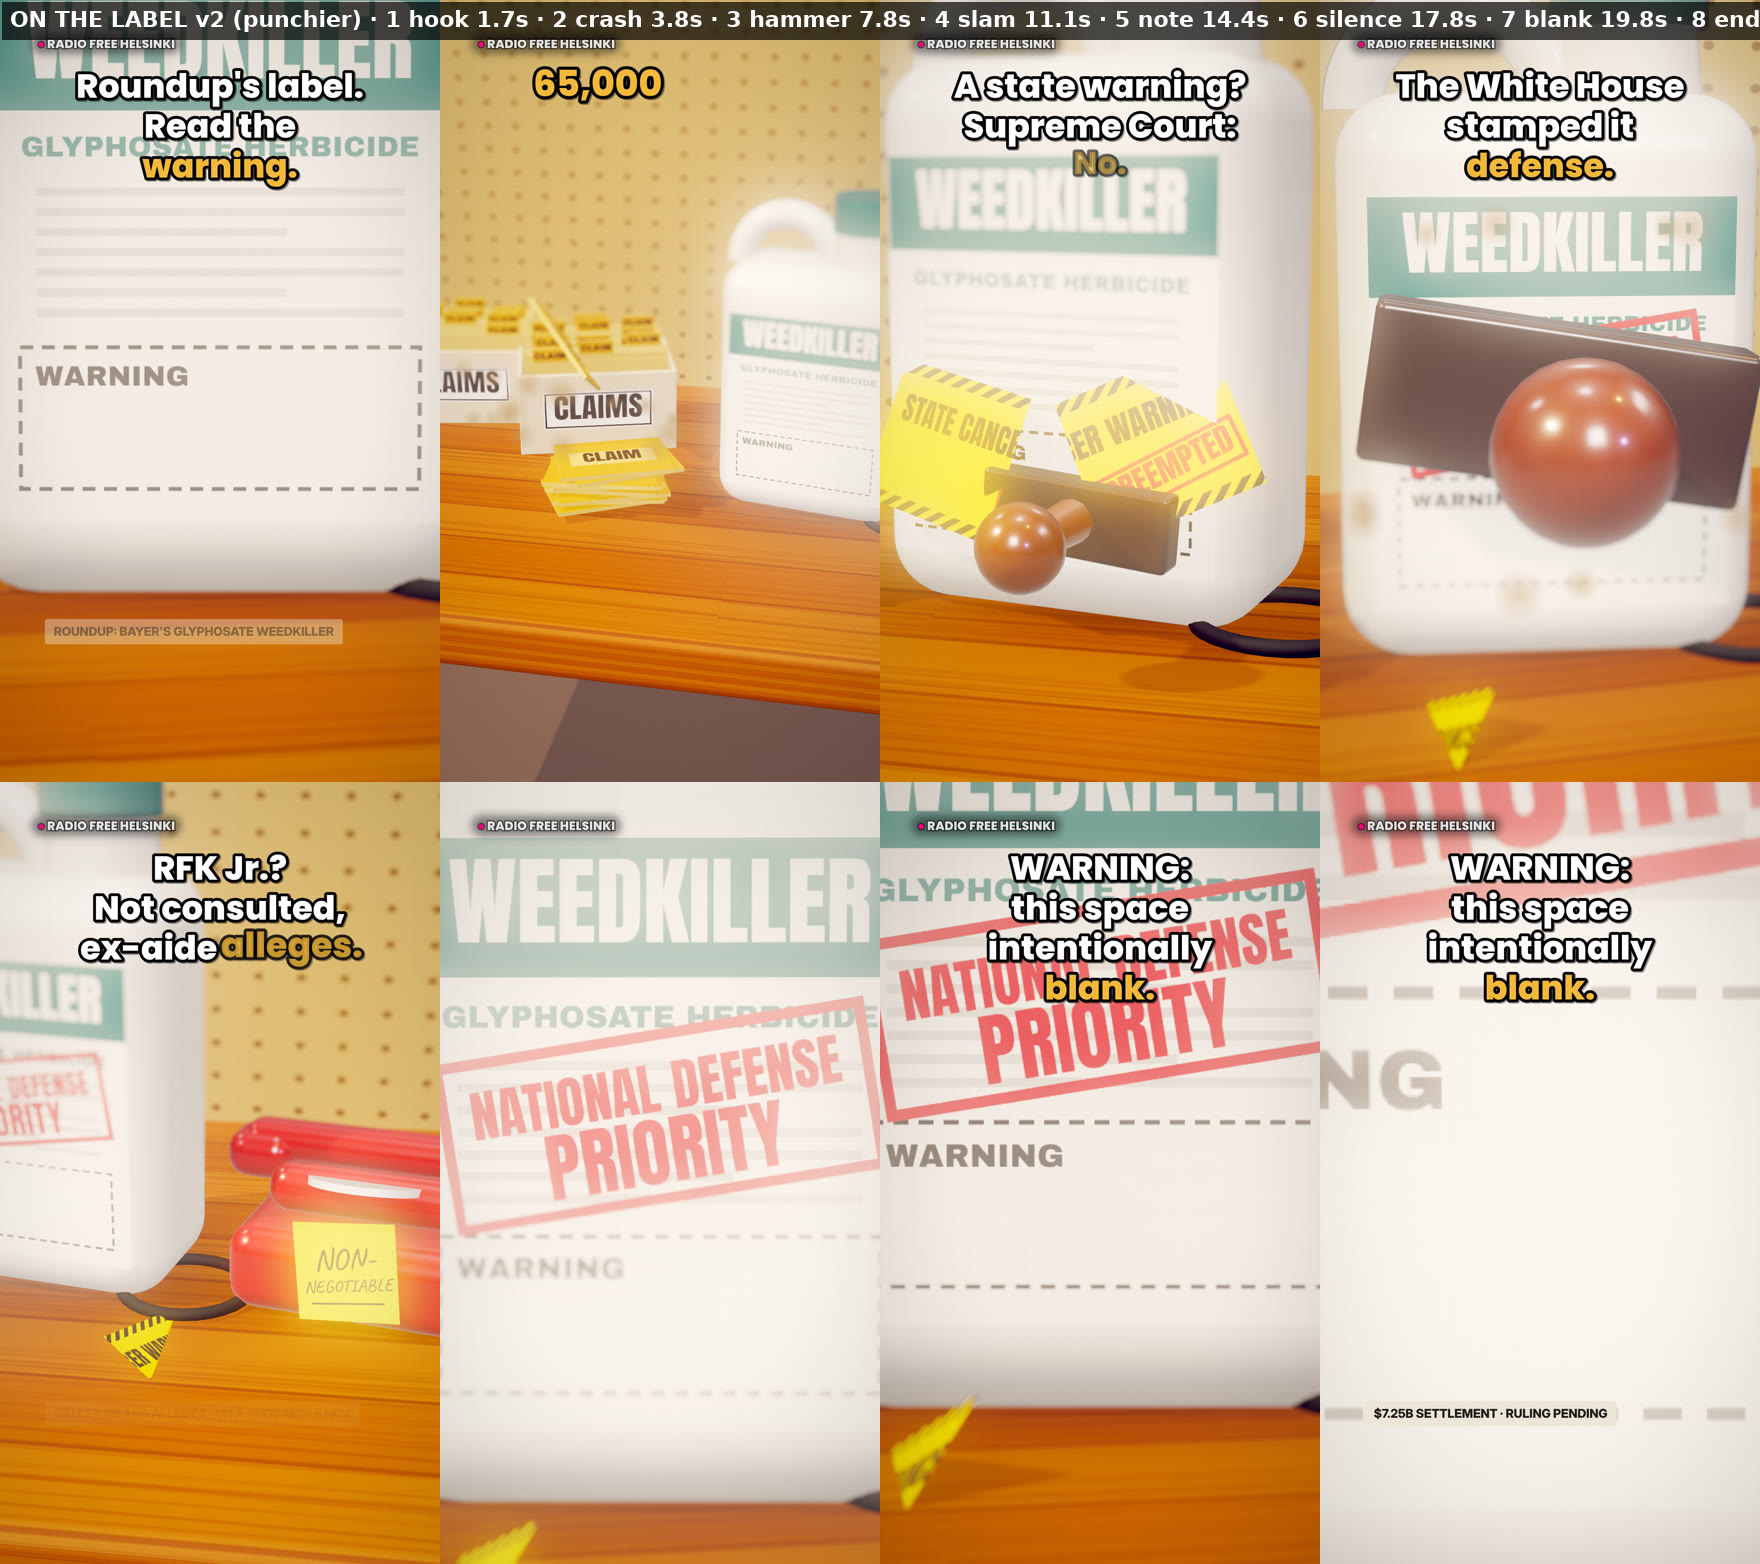
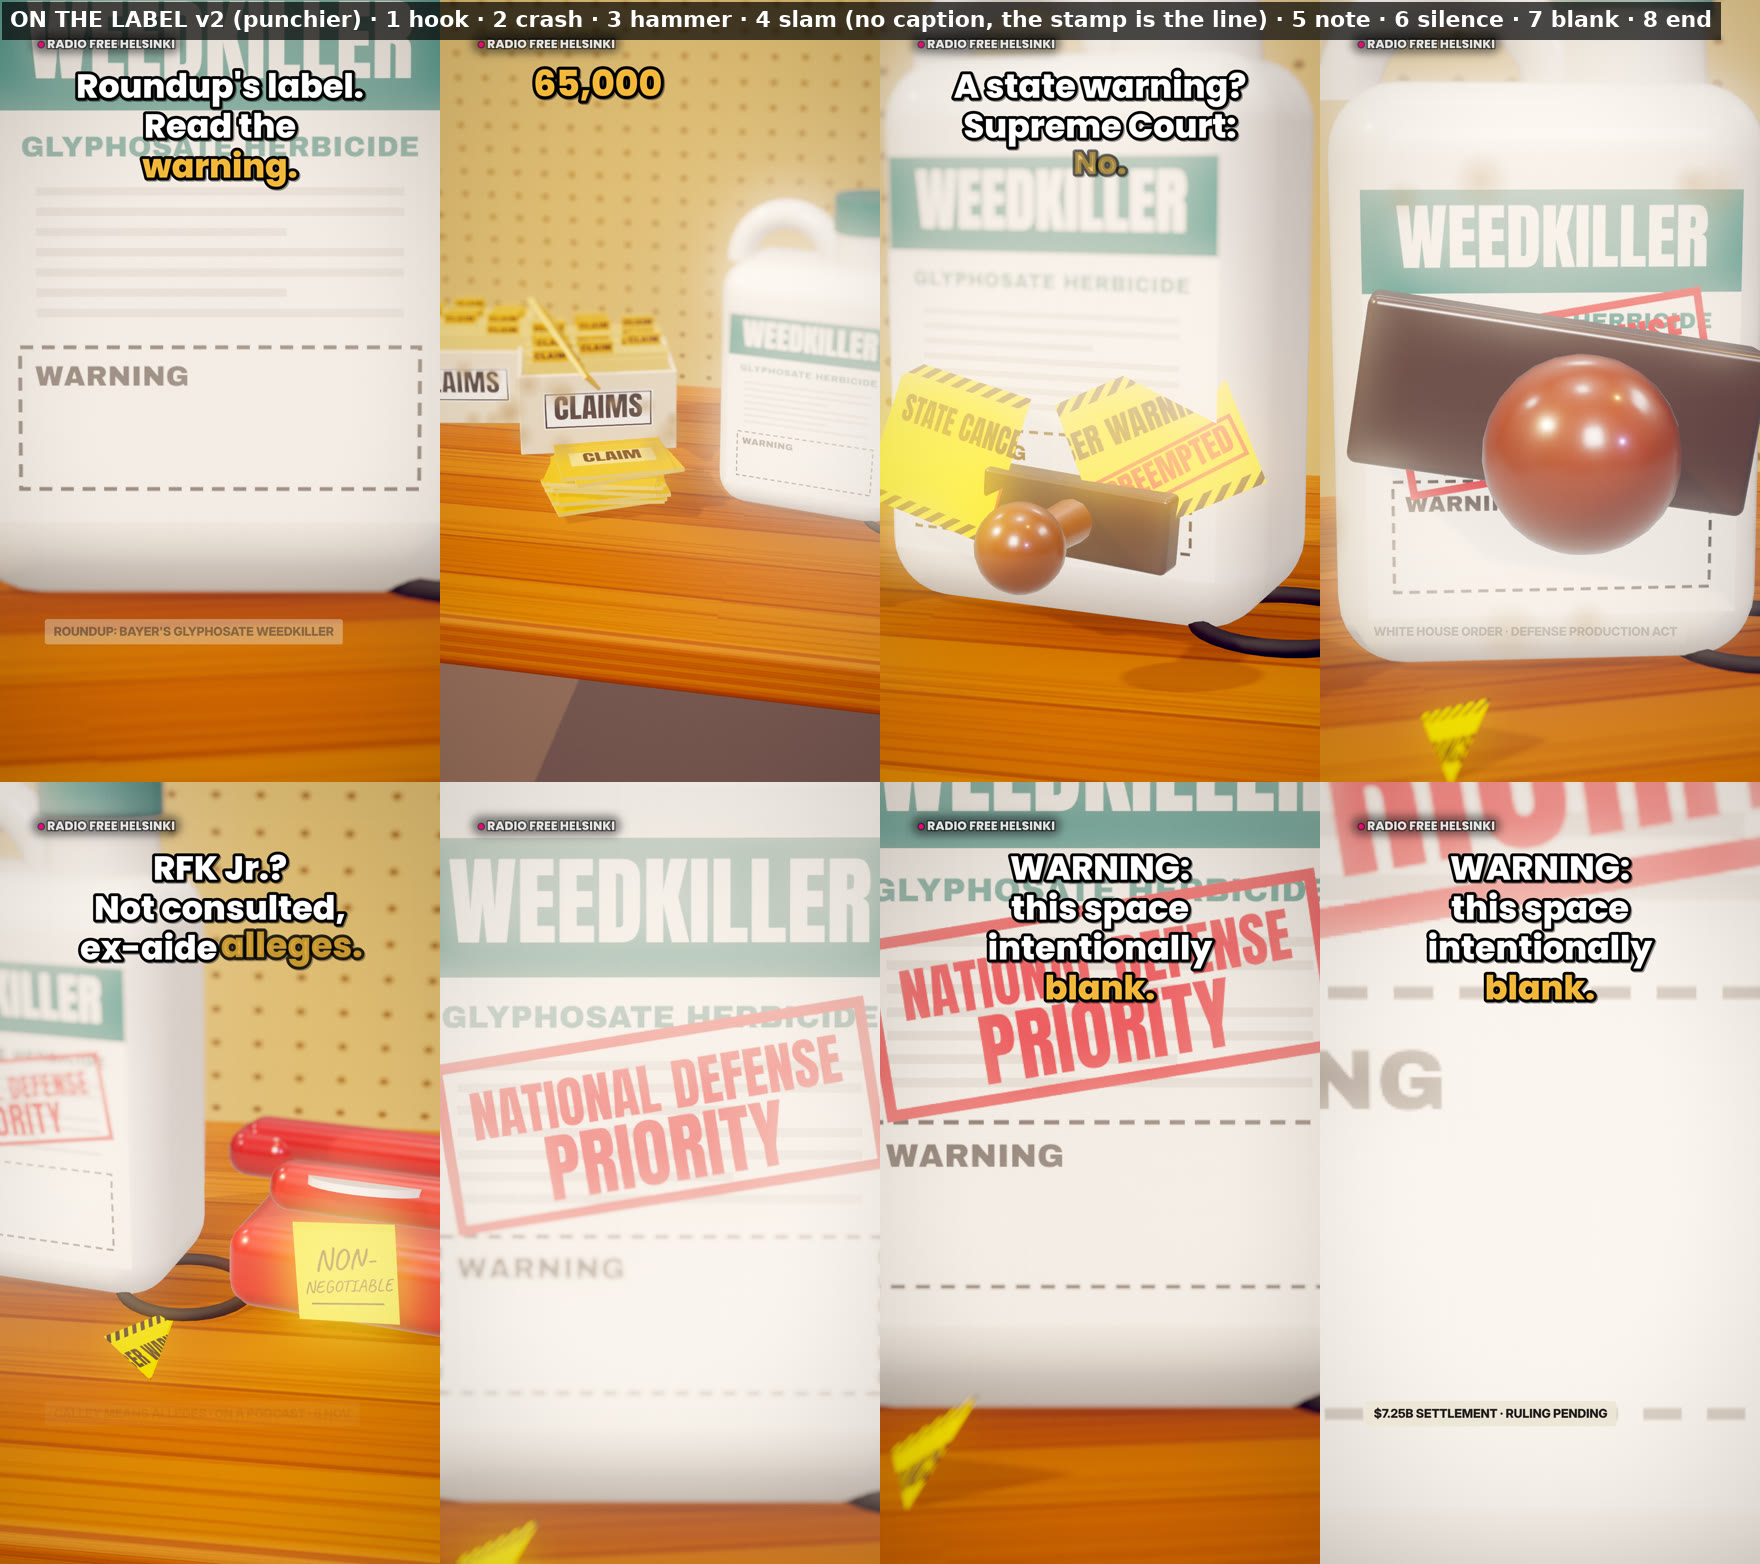
On the Label v2 in progress
Claude-Session: https://claude.ai/code/session_011b61vCGymuKHRP9nugFoKh

Changed region(s): [[0.75, 0.0, 1.0, 0.491], [0.2812, 0.0, 0.7188, 0.0307]]

diff --git a/radiofree/studio/art-motion/clay/roundup/film.js b/radiofree/studio/art-motion/clay/roundup/film.js
@@ -57,11 +57,11 @@ const fit = (g, text, size, maxW, min = 20, face = 'Anton-400', wt = '') => { le
 await CAP.loadFonts(FONT_DIR);
 const COPY = await CAP.loadCopy('copy.json');
 // short-short-long: the hook, three hits, the long allegation beat (four tags), the turn
-const BEATS = [['s1', 0], ['s2', 3.3], ['s3', 6.25], ['s4', 9.55], ['s5', 12.85], ['s6', 17.45], ['end', 21.35]];
+const BEATS = [['s1', 0], ['s2', 3.3], ['s3', 6.25], ['s4', 9.55], ['s5', 12.15], ['s6', 16.75], ['end', 20.65]];
 const P = CAP.plan(COPY, LANG, BEATS, { snap: 0.25 }), T = P.T, DUR = T.end, UI = P.ui;
 // every impact lands on its caption's pop word, to the frame
 const popT = (id) => { const c = P.captions.find((c) => c.id === id); return (c.words.find((w) => w.pop) || c.words[0]).t; };
-const EV = { hook: popT('hook'), crash: popT('claims'), stickStamp: popT('court'), stampDown: popT('order'), noteSlap: popT('asked'), blank: popT('blank') };
+const EV = { hook: popT('hook'), crash: popT('claims'), stickStamp: popT('court'), stampDown: T.s4 + 1.25, noteSlap: popT('asked'), blank: popT('blank') };   // the slam has no caption: the stamp is the line
 EV.stickHit = EV.stickStamp - 0.5; EV.stickLand = EV.stickStamp + 0.6;
 for (let i = 0; i < 3; i++) EV['folder' + i] = EV.crash + 0.06 + i * 0.09;
 EV.silence0 = T.s6; EV.silence1 = T.s6 + 0.55;
@@ -114,11 +114,12 @@ function drawLabel(stampK) {
   g.strokeStyle = '#1d1b19'; g.lineWidth = 5; g.setLineDash([16, 10]); g.strokeRect(BOX.x, BOX.y, BOX.w, BOX.h); g.setLineDash([]);
   g.fillStyle = '#1d1b19'; g.textAlign = 'left'; g.font = '34px ArchivoBlack-400'; g.fillText(UI.warnBox, BOX.x + 18, BOX.y + 46);
   if (stampK > 0) {   // NATIONAL DEFENSE / PRIORITY, in rubber-stamp red, at an angle, over the middle of the label
-    g.save(); g.translate(w / 2, 300); g.rotate(-0.16); g.globalAlpha = clamp(stampK);
-    g.strokeStyle = '#c4232b'; g.lineWidth = 12; g.strokeRect(-232, -88, 464, 176);
-    g.fillStyle = '#c4232b'; g.textAlign = 'center'; fit(g, UI.stamp1, 82, 420); g.fillText(UI.stamp1, 0, -6); fit(g, UI.stamp2, 82, 420); g.fillText(UI.stamp2, 0, 72);
+    g.save(); g.translate(w / 2, 284); g.rotate(-0.16); g.globalAlpha = clamp(stampK);
+    g.strokeStyle = '#c4232b'; g.lineWidth = 12; g.strokeRect(-232, -100, 464, 232);
+    g.fillStyle = '#c4232b'; g.textAlign = 'center'; fit(g, UI.stamp1, 82, 420); g.fillText(UI.stamp1, 0, -18); fit(g, UI.stamp2, 82, 420); g.fillText(UI.stamp2, 0, 60);
+    fit(g, UI.stamp3, 34, 400, 16, 'ArchivoBlack-400'); g.fillText(UI.stamp3, 0, 110);
     // ink texture: knock a few specks out, as a rubber stamp leaves it
-    g.globalCompositeOperation = 'destination-out'; const r = rng(11); for (let i = 0; i < 260; i++) { g.globalAlpha = 0.5 * clamp(stampK); g.fillRect(-240 + r() * 480, -96 + r() * 192, 2 + r() * 5, 2 + r() * 3); }
+    g.globalCompositeOperation = 'destination-out'; const r = rng(11); for (let i = 0; i < 300; i++) { g.globalAlpha = 0.5 * clamp(stampK); g.fillRect(-240 + r() * 480, -108 + r() * 248, 2 + r() * 5, 2 + r() * 3); }
     g.restore();
   }
   labelTex.needsUpdate = true;
@@ -320,7 +321,7 @@ function frame(t, captions = true) {
   tag(g2d, UI.tag0, tg(T.s1 + 1.6, T.s2 - 0.1));
   tag(g2d, UI.tag1, tg(T.s2 + 0.8, T.s2 + 1.85)); tag(g2d, UI.tag1b, tg(T.s2 + 1.95, T.s3 - 0.1));
   tag(g2d, UI.tag2, tg(T.s3 + 1.7, T.s4 - 0.1));
-  tag(g2d, UI.tag3, tg(T.s4 + 1.6, T.s5 - 0.1));
+  tag(g2d, UI.tag3, tg(EV.stampDown + 0.25, T.s5 - 0.1));
   tag(g2d, UI.tag4, tg(T.s5 + 0.5, T.s5 + 1.55)); tag(g2d, UI.tag4b, tg(T.s5 + 1.65, T.s5 + 2.6));
   tag(g2d, UI.tag4c, tg(T.s5 + 2.7, T.s5 + 3.6)); tag(g2d, UI.tag4d, tg(T.s5 + 3.7, T.s6 - 0.1));
   tag(g2d, UI.tag5, tg(EV.blank + 0.5, T.end + 1));

diff --git a/radiofree/studio/art-motion/plan/films/41-roundup.md b/radiofree/studio/art-motion/plan/films/41-roundup.md
@@ -198,7 +198,7 @@ as `films/07-11-Coxon14-On-the-Label-v1.mp4` / `-v1-loop.mp4` for comparison. St
 
 **What was wrong with v1, and the fix:**
 - Five beats at the same ~4.4 s cadence, each a three-line news sentence with one pop. v2 has six beats of varied
-  length (3.3 / 2.95 / 3.3 / 3.3 / 4.6 / 3.9 s), shorter lines, and a turn at the end instead of a repeat of beat 2.
+  length (3.3 / 2.95 / 3.3 / 2.6 / 4.6 / 3.9 s), five captions and one caption-less slam, shorter lines, and a turn at the end instead of a repeat of beat 2.
 - Polite actions. Every hit is now an impact with a 2–3 frame camera kick: the CLAIMS boxes crash in from above and files
   spill; a hand stamp hammers PREEMPTED onto the sticker, which tears in two; the big stamp hangs, then slams, with dust;
   the note slaps. The bed ducks hard under each (−10 / −10 / −14 / −8 dB).
@@ -207,22 +207,28 @@ as `films/07-11-Coxon14-On-the-Label-v1.mp4` / `-v1-loop.mp4` for comparison. St
   deadpan sting: "WARNING: this space intentionally [blank]." Legal-document deadpan; true, since after Durnell no state
   can require the warning and the federal label carries none.
 
-**Script (en, 21.35 s + the sign-off):**
+**The house rule and the cut.** The message check allows one setup, at most three facts and one punchline; six captions
+failed it (four facts). The `order` caption was cut: the slam carries the fact itself — the stamp reads NATIONAL DEFENSE
+PRIORITY · EXECUTIVE ORDER · 18 FEB 2026 and the tag WHITE HOUSE ORDER · DEFENSE PRODUCTION ACT. The picture is the
+sentence, and the beat is shorter (2.6 s).
+
+**Script (en, 20.65 s + the sign-off):**
 1. (0–3.3) Roundup's label. / Read the / [warning]. — tight on the empty box. Tag: ROUNDUP: BAYER'S GLYPHOSATE WEEDKILLER.
 2. (3.3–6.25) [65,000] people / say: cancer. — the CLAIMS boxes crash onto the bench. Tags: PLAINTIFFS ALLEGE · BAYER SAYS
    IT'S SAFE; EPA: NOT LIKELY CARCINOGENIC · IARC: PROBABLY.
 3. (6.25–9.55) A state warning? / Supreme Court: / [No]. — the sticker slaps on; the hammer; it tears. Tag: MONSANTO v.
    DURNELL · 25 JUNE 2026 · 7–2.
-4. (9.55–12.85) The White House / stamped it / [defense]. — the slam, dust. Tag: ORDER OF 18 FEB 2026 · DEFENSE PRODUCTION ACT.
-5. (12.85–17.45) RFK Jr.? / Not consulted, / ex-aide [alleges]. — the note slaps onto the phone, which never rings. Tags:
+4. (9.55–12.15) no caption: the stamp hangs, then SLAMS the label — NATIONAL DEFENSE PRIORITY · EXECUTIVE ORDER · 18 FEB
+   2026 — with dust. Tag: WHITE HOUSE ORDER · DEFENSE PRODUCTION ACT.
+5. (12.15–16.75) RFK Jr.? / Not consulted, / ex-aide [alleges]. — the note slaps onto the phone, which never rings. Tags:
    CALLEY MEANS ALLEGES · ON A PODCAST · 6 NOV; KENNEDY, MARCH: HE KNEW OF THE ORDER; WHITE HOUSE: "EXTENSIVE VICTORIES"
    FOR MAHA; AIDE JAMES BLAIR: "NO IDEA WHAT HE'S TALKING ABOUT" (STAT, The Hill, Axios, 6 Nov).
-6. (17.45–21.35) silence; WARNING: / this space / intentionally / [blank]. — the push into the empty box. Tag: $7.25B
+6. (16.75–20.65) silence; WARNING: / this space / intentionally / [blank]. — the push into the empty box. Tag: $7.25B
    SETTLEMENT · RULING PENDING.
 
 **Post (278 chars):** "Roundup's label has no cancer warning: the Supreme Court says states can't require one (7–2). A
 February order made glyphosate a defense priority. An ex-adviser alleges RFK Jr. wasn't consulted; Kennedy says he knew;
 the White House disputes it. Bayer: safe. Who writes the label?"
 
-**Length:** the owner asked for ~19–20 s; it is 21.35 s because the reading rule (1 s + a character per 20) sets each
+**Length:** the owner asked for ~19–20 s; it is 20.65 s because the reading rule (1 s + a character per 20) sets each
 caption's minimum, and beat 5 carries four tags (the allegation, Kennedy's answer, the White House's two rebuttals).
